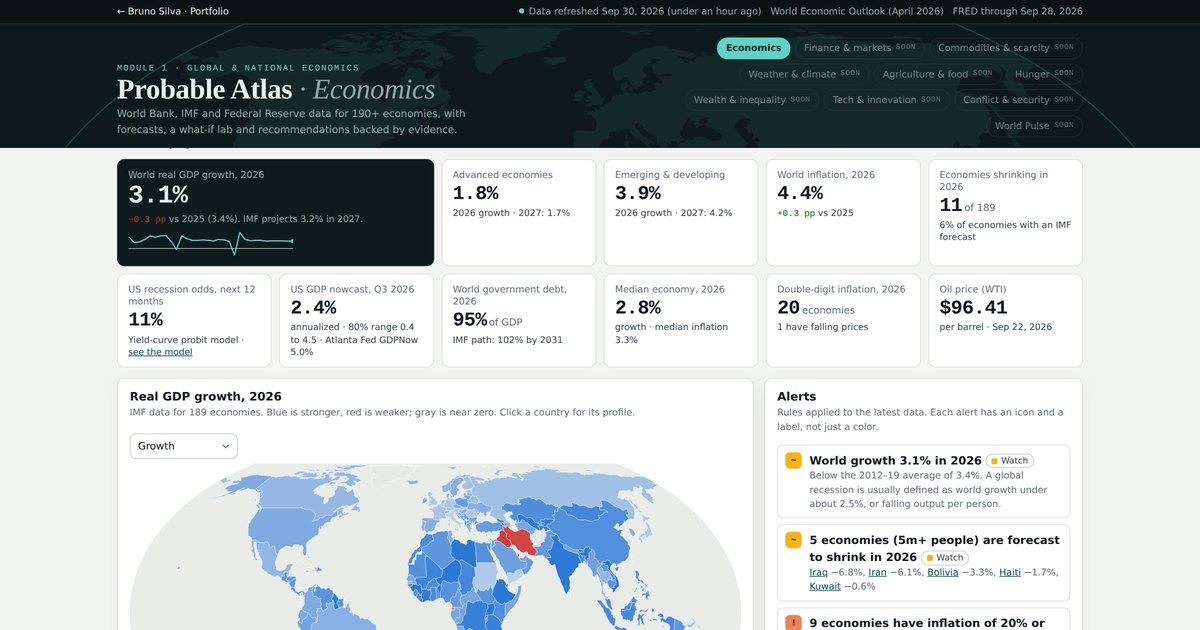
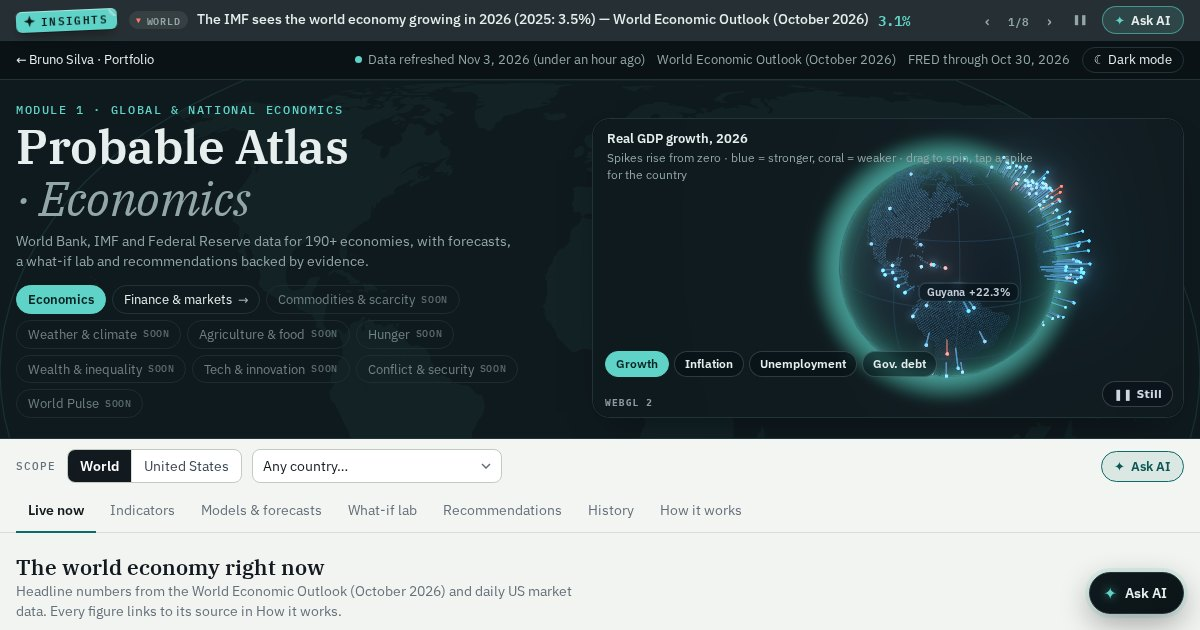
New portfolio previews for the 2.0 sites; sturdier live log for the track record
- Economics and Sports Lab preview images captured from the live sites (3D globe and live arena under the
  Insights bar), with alt text that describes them
- Track record: the prospective log now takes every game starting within 18 hours and keeps the last
  reading before the start (hours ahead stored), so a late or skipped hourly run no longer misses games
- Track record wording: no "an hour or so before" promise

Claude-Session: https://claude.ai/code/session_01QYVjjs6ajd4XF2EEJuS4cJ

diff --git a/live-sports-lab/index.html b/live-sports-lab/index.html
@@ -6660,7 +6660,7 @@ SNAPSHOT.stats = {"asOf":"2026-09-26","st":{"nfl":{"2026":"BUF|2|0|0|77|62||AFC|
     const rows = ids.map(id => { const x = T.leagues[id]; return `<tr><th scope="row">${esc(lgName(id))} <span class="muted">${esc(season(x))}</span></th><td class="num">${x.n.toLocaleString()}</td><td class="num">${pc(x.acc)}${APP.kindOf(id) === 'sc' ? '<sup>*</sup>' : ''}</td><td class="num">${x.brier.toFixed(3)}</td><td class="num">${x.base.toFixed(3)}</td><td class="num ${x.skill > 0 ? 'good' : 'bad'}">${x.skill > 0 ? '+' : ''}${Math.round(x.skill * 100)}%</td></tr>`; }).join('');
     const ig = ids.flatMap(id => (T.leagues[id].ingame || []).map(s => `<tr><th scope="row">${esc(lgName(id))}</th><td>${esc(s.stage)}</td><td class="num">${s.n.toLocaleString()}</td><td class="num">${pc(s.acc)}</td><td class="num">${s.brier.toFixed(3)}</td><td class="num">${s.leaderBrier.toFixed(3)}</td></tr>`)).join('');
     const L = T.live && T.live.all;
-    const live = L && L.n ? `<div class="track-live"><span class="eyebrow">Live board vs the betting line · since ${esc(new Date(T.live.since).toLocaleDateString([], { month: 'short', day: 'numeric', year: 'numeric' }))}</span><div class="tk-row"><div class="tk"><b>${L.n}</b><span>games logged before start and graded</span></div><div class="tk"><b>${pc(L.model.acc)}</b><span>board favorite won · Brier ${L.model.brier.toFixed(3)}</span></div>${L.line ? `<div class="tk"><b>${pc(L.line.acc)}</b><span>betting-line favorite won · Brier ${L.line.brier.toFixed(3)} (${L.line.n} games)</span></div>` : ''}</div></div>` : `<p class="muted small">From now on every game is also logged an hour or so before it starts — the live board's number and the betting line — and graded once it ends, so the record will soon compare the board with the market.</p>`;
+    const live = L && L.n ? `<div class="track-live"><span class="eyebrow">Live board vs the betting line · since ${esc(new Date(T.live.since).toLocaleDateString([], { month: 'short', day: 'numeric', year: 'numeric' }))}</span><div class="tk-row"><div class="tk"><b>${L.n}</b><span>games logged before start and graded</span></div><div class="tk"><b>${pc(L.model.acc)}</b><span>board favorite won · Brier ${L.model.brier.toFixed(3)}</span></div>${L.line ? `<div class="tk"><b>${pc(L.line.acc)}</b><span>betting-line favorite won · Brier ${L.line.brier.toFixed(3)} (${L.line.n} games)</span></div>` : ''}</div></div>` : `<p class="muted small">From now on the live board's pregame number and the betting line are also logged before every game starts and graded once it ends, so the record will soon compare the board with the market.</p>`;
     return `<section class="panel track" id="track">
       <div class="sec-h"><h2>Track record</h2><span class="aside">Updated ${esc(new Date(T.asOf).toLocaleString([], { month: 'short', day: 'numeric', hour: 'numeric', minute: '2-digit' }))}</span></div>
       <p class="track-lede">Every completed game this season, predicted again with the lab's own rating model using only results known before it started — no hindsight. Brier score measures probability error (0 is perfect; lower is better); skill compares it with knowing only the home edge.</p>

diff --git a/live-sports-lab/source/src/13-track.js b/live-sports-lab/source/src/13-track.js
@@ -63,7 +63,7 @@
     const rows = ids.map(id => { const x = T.leagues[id]; return `<tr><th scope="row">${esc(lgName(id))} <span class="muted">${esc(season(x))}</span></th><td class="num">${x.n.toLocaleString()}</td><td class="num">${pc(x.acc)}${APP.kindOf(id) === 'sc' ? '<sup>*</sup>' : ''}</td><td class="num">${x.brier.toFixed(3)}</td><td class="num">${x.base.toFixed(3)}</td><td class="num ${x.skill > 0 ? 'good' : 'bad'}">${x.skill > 0 ? '+' : ''}${Math.round(x.skill * 100)}%</td></tr>`; }).join('');
     const ig = ids.flatMap(id => (T.leagues[id].ingame || []).map(s => `<tr><th scope="row">${esc(lgName(id))}</th><td>${esc(s.stage)}</td><td class="num">${s.n.toLocaleString()}</td><td class="num">${pc(s.acc)}</td><td class="num">${s.brier.toFixed(3)}</td><td class="num">${s.leaderBrier.toFixed(3)}</td></tr>`)).join('');
     const L = T.live && T.live.all;
-    const live = L && L.n ? `<div class="track-live"><span class="eyebrow">Live board vs the betting line · since ${esc(new Date(T.live.since).toLocaleDateString([], { month: 'short', day: 'numeric', year: 'numeric' }))}</span><div class="tk-row"><div class="tk"><b>${L.n}</b><span>games logged before start and graded</span></div><div class="tk"><b>${pc(L.model.acc)}</b><span>board favorite won · Brier ${L.model.brier.toFixed(3)}</span></div>${L.line ? `<div class="tk"><b>${pc(L.line.acc)}</b><span>betting-line favorite won · Brier ${L.line.brier.toFixed(3)} (${L.line.n} games)</span></div>` : ''}</div></div>` : `<p class="muted small">From now on every game is also logged an hour or so before it starts — the live board's number and the betting line — and graded once it ends, so the record will soon compare the board with the market.</p>`;
+    const live = L && L.n ? `<div class="track-live"><span class="eyebrow">Live board vs the betting line · since ${esc(new Date(T.live.since).toLocaleDateString([], { month: 'short', day: 'numeric', year: 'numeric' }))}</span><div class="tk-row"><div class="tk"><b>${L.n}</b><span>games logged before start and graded</span></div><div class="tk"><b>${pc(L.model.acc)}</b><span>board favorite won · Brier ${L.model.brier.toFixed(3)}</span></div>${L.line ? `<div class="tk"><b>${pc(L.line.acc)}</b><span>betting-line favorite won · Brier ${L.line.brier.toFixed(3)} (${L.line.n} games)</span></div>` : ''}</div></div>` : `<p class="muted small">From now on the live board's pregame number and the betting line are also logged before every game starts and graded once it ends, so the record will soon compare the board with the market.</p>`;
     return `<section class="panel track" id="track">
       <div class="sec-h"><h2>Track record</h2><span class="aside">Updated ${esc(new Date(T.asOf).toLocaleString([], { month: 'short', day: 'numeric', hour: 'numeric', minute: '2-digit' }))}</span></div>
       <p class="track-lede">Every completed game this season, predicted again with the lab's own rating model using only results known before it started — no hindsight. Brier score measures probability error (0 is perfect; lower is better); skill compares it with knowing only the home edge.</p>

diff --git a/index.html b/index.html
@@ -533,7 +533,7 @@
         </div>
 
         <div class="project-card project-featured">
-          <a class="project-shot" href="probable-atlas/finance/" aria-label="Open Probable Atlas: Finance & Markets"><img src="probable-atlas/finance/preview.jpg" alt="Probable Atlas Finance: S&amp;P 500, Nasdaq, Russell 2000, 10-year yield, VIX, dollar, gold, oil and bitcoin tiles with sparklines under the Finance masthead" width="1200" height="630" loading="lazy"></a>
+          <a class="project-shot" href="probable-atlas/finance/" aria-label="Open Probable Atlas: Finance & Markets"><img src="probable-atlas/finance/preview.jpg" alt="Probable Atlas Finance: a 3D terrain of the US Treasury yield curve since 1990 beside the Finance masthead, under the pinned Insights bar" width="1200" height="630" loading="lazy"></a>
           <div class="project-body">
             <span class="project-badge">New · Live markets · 3D · AI analyst</span>
             <h3><a class="project-title-link" href="probable-atlas/finance/">Probable Atlas: Finance &amp; Markets</a></h3>
@@ -568,7 +568,7 @@
         </div>
 
         <div class="project-card project-featured">
-          <a class="project-shot" href="probable-atlas/" aria-label="Open Probable Atlas: Economics"><img src="probable-atlas/preview.jpg" alt="Probable Atlas Economics: world growth, inflation and US recession-odds tiles above a world map of 2026 GDP growth and an alerts panel" width="1200" height="630" loading="lazy"></a>
+          <a class="project-shot" href="probable-atlas/" aria-label="Open Probable Atlas: Economics"><img src="probable-atlas/preview.jpg" alt="Probable Atlas Economics: a 3D globe with a spike for each country&#39;s 2026 GDP growth beside the Economics masthead, under the pinned Insights bar" width="1200" height="630" loading="lazy"></a>
           <div class="project-body">
             <span class="project-badge">Live data · 3D globe · AI analyst</span>
             <h3><a class="project-title-link" href="probable-atlas/">Probable Atlas: Economics</a></h3>
@@ -634,7 +634,7 @@
         </div>
 
         <div class="project-card project-featured">
-          <a class="project-shot" href="live-sports-lab/" aria-label="Open Probable: Live Sports Lab"><img src="live-sports-lab/preview.jpg" alt="Probable Live Sports Lab: a featured game with win probabilities, a lead-by-time heatmap and live score cards" width="1200" height="630" loading="lazy"></a>
+          <a class="project-shot" href="live-sports-lab/" aria-label="Open Probable: Live Sports Lab"><img src="live-sports-lab/preview.jpg" alt="Probable Live Sports Lab: the 3D live arena with every game on one timeline, each orb split by win probability, under the pinned Insights bar" width="1200" height="630" loading="lazy"></a>
           <div class="project-body">
             <span class="project-badge">Live · 3D arena · AI analyst</span>
             <h3><a class="project-title-link" href="live-sports-lab/">Probable: Live Sports Lab</a></h3>
